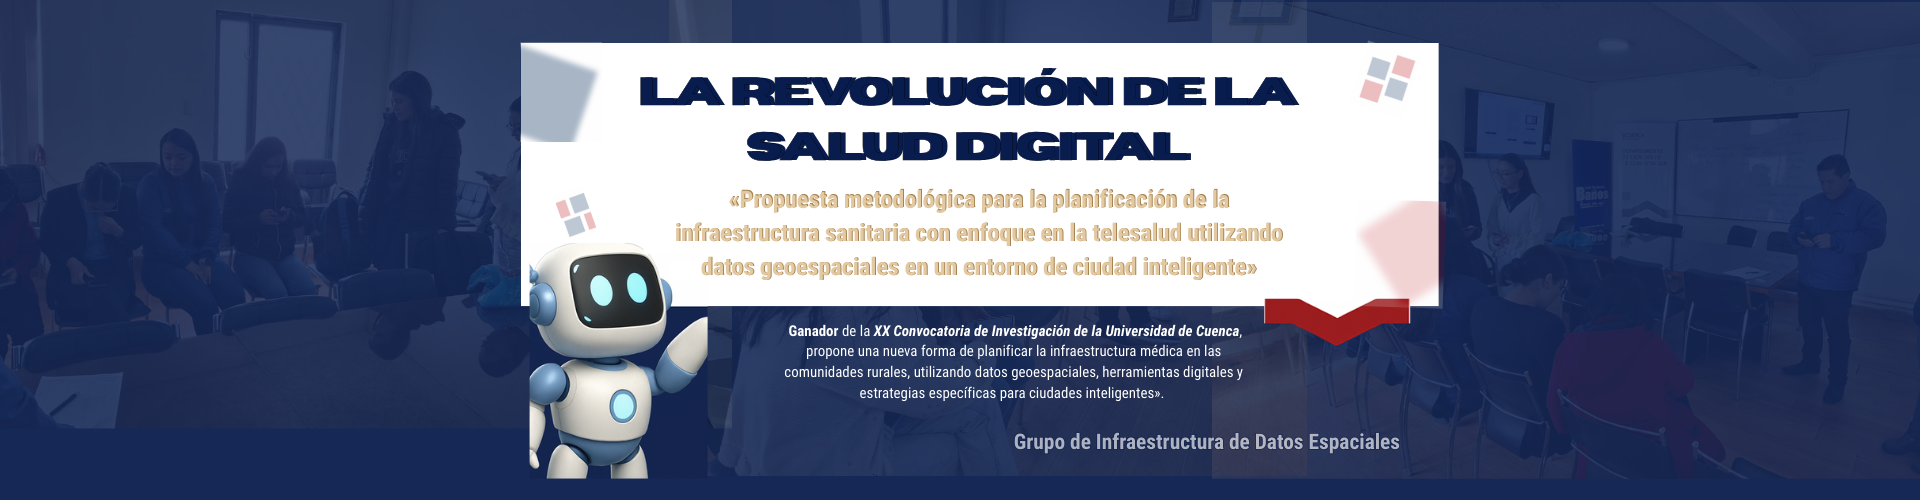
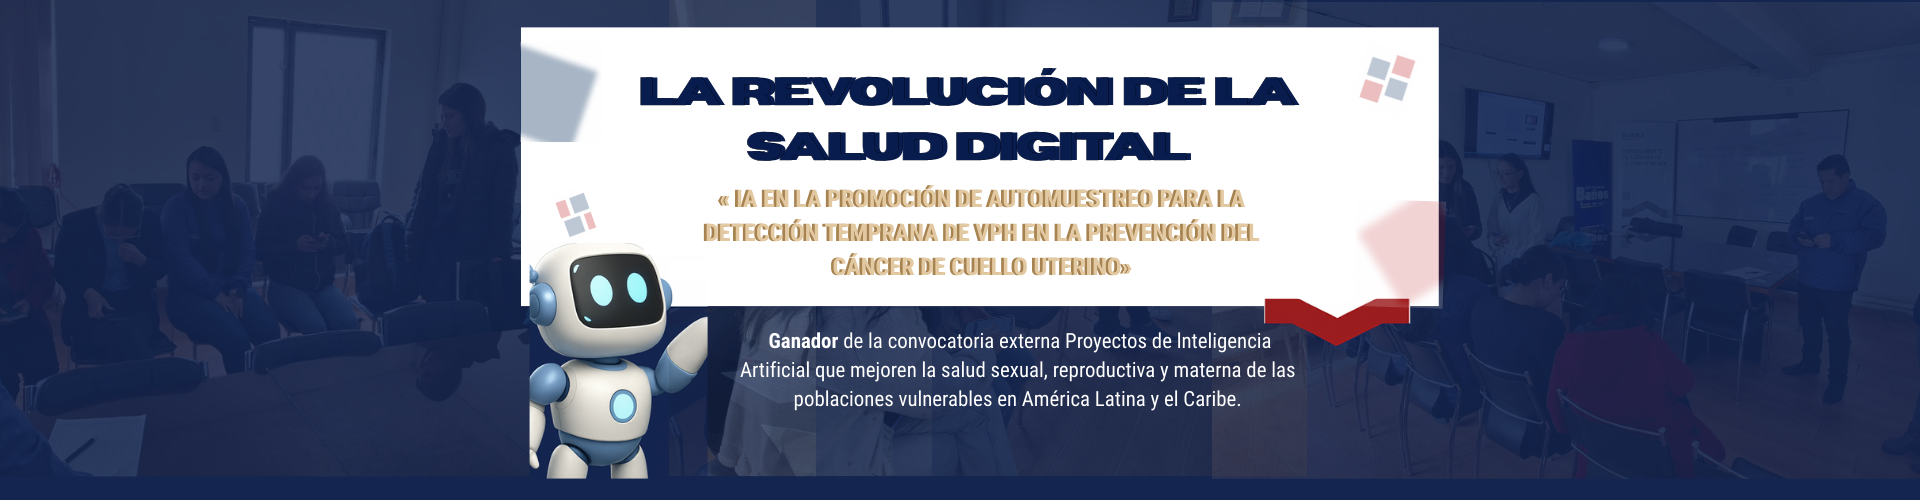
[ADD] Some Changes in INICIO

diff --git a/src/main/resources/templates/_fragments/navbar.html b/src/main/resources/templates/_fragments/navbar.html
@@ -1,15 +1,19 @@
 <th:block xmlns:th="http://www.thymeleaf.org" th:fragment="navbar(active)">
     <nav class="navbar navbar-expand-xl navbar-light bg-white border-bottom py-2">
         <div class="container-xl">
-
             <!-- Marca: 2 logos -->
-            <a th:href="@{/}" class="navbar-brand me-4">
-                <!-- En móviles: columna. En >=md: fila -->
-                <div class="brand-logos d-flex flex-column flex-sm-row align-items-start gap-1">
-                    <img src="/images/logo.png"  alt="UCUENCA" class="brand-img">
-                    <img src="/images/clias.png"  alt="CLIAS"   class="brand-img">
-                </div>
-            </a>
+            <div class="brand-logos d-flex flex-column flex-sm-row align-items-start gap-1">
+                <!-- Logo UCUENCA -->
+                <a href="https://www.ucuenca.edu.ec/" target="_blank" rel="noopener" class="navbar-brand">
+                    <img src="/images/logo.png" alt="UCUENCA" class="brand-img">
+                </a>
+
+                <!-- Logo CLIAS -->
+                <a href="https://clias.iecs.org.ar/" target="_blank" rel="noopener" class="navbar-brand">
+                    <img src="/images/clias.png" alt="CLIAS" class="brand-img">
+                </a>
+            </div>
+
 
             <!-- Botón hamburguesa, alineado a la derecha con padding -->
             <button class="navbar-toggler ms-auto me-2 me-sm-3 d-xl-none" type="button"
@@ -38,9 +42,7 @@
                         <a class="nav-link" th:classappend="${active}=='contactos' ? ' active'"
                            th:href="@{/contactos}">Contactos</a>
                     </li>
-                    <li class="nav-item">
-                        <a class="nav-link" href="/web" target="_self">Admin</a>
-                    </li>
+
                 </ul>
             </div>
 

diff --git a/src/main/resources/templates/index.html b/src/main/resources/templates/index.html
@@ -63,7 +63,21 @@
         </div>
     </section>
 
+    <!-- CTA Descarga la app -->
+    <section class="cta-download text-center text-white py-5">
+        <div class="container">
+            <h2 class="fw-bold mb-3">Descarga la aplicación SISA</h2>
+            <p class="lead mb-4">Accede a todas las funcionalidades desde tu dispositivo móvil.</p>
+            <!-- Enlaza a la sección de descarga dentro de /proyecto -->
+            <a th:href="@{/proyecto}#descarga" class="btn btn-light btn-lg px-4">
+                <i class="bi bi-download me-2"></i> Ir a la descarga
+            </a>
+        </div>
+    </section>
+
+
 </main>
+
 
 
 

diff --git a/src/main/resources/templates/proyecto.html b/src/main/resources/templates/proyecto.html
@@ -103,7 +103,7 @@
         </div>
     </section>
     <!-- Recursos: Descargar app -->
-    <section class="section card p-4 mt-4 mb-4">
+    <section id="descarga" class="section card p-4 mt-4 mb-4">
         <h2 class="h4 section-title mb-3">Descargar aplicación móvil</h2>
         <p class="mb-3">
             Obtén la versión más reciente de la app SISA para Android.
